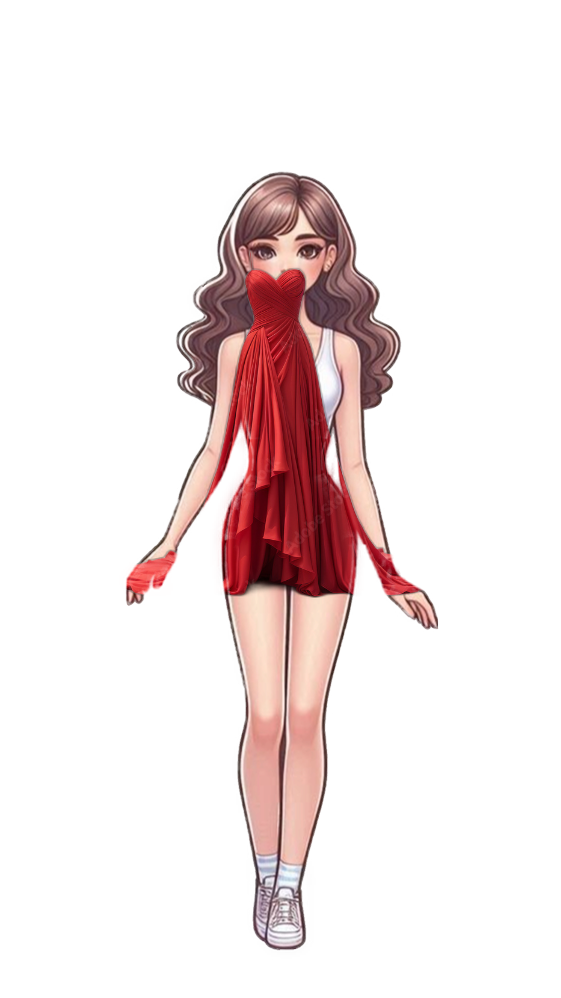
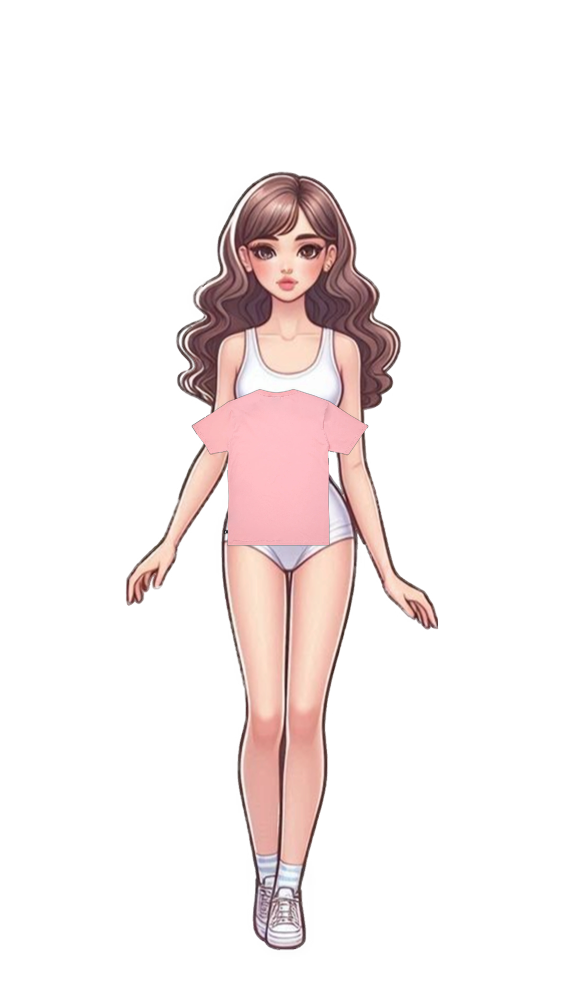
added some new features need to fix them

Changed region(s): [[0.3333, 0.2485, 0.7576, 0.6212], [0.2121, 0.5591, 0.303, 0.6212]]

diff --git a/image_processing/processing.py b/image_processing/processing.py
@@ -1,0 +1,61 @@
+import cv2
+import numpy as np
+from rembg import remove
+from PIL import Image
+
+def fit_on_dummy(input_path, garment_type):
+    dummy = cv2.imread('dummy.png', cv2.IMREAD_UNCHANGED)
+    if dummy is None:
+        print("Error: Could not find 'dummy.png'")
+        return None
+
+    # Process garment
+    input_img = Image.open(input_path)
+    no_bg = remove(input_img)
+    cv_garment = cv2.cvtColor(np.array(no_bg), cv2.COLOR_RGBA2BGRA)
+    
+    # Crop to content
+    alpha = cv_garment[:,:,3]
+    y, x = np.where(alpha > 0)
+    cropped = cv_garment[np.min(y):np.max(y), np.min(x):np.max(x)]
+    h, w = cropped.shape[:2]
+
+    # --- COORDINATE FIXES FOR 561x998 DUMMY ---
+    # Center X is 280
+    if garment_type == "top" or garment_type == "dress":
+        # Anchoring to the top of the shoulders/base of neck
+        target_width = 240  # Increased to actually cover the dummy's shoulders
+        scale = target_width / w
+        new_w = int(w * scale)
+        new_h = int(h * scale)
+        
+        anchor_x = (561 - new_w) // 2
+        anchor_y = 285 # Moved down from your original to sit on the shoulders
+
+    elif garment_type == "bottom":
+        target_width = 160 # Waist width
+        scale = target_width / w
+        new_w = int(w * scale)
+        new_h = int(h * scale)
+        
+        anchor_x = (561 - new_w) // 2
+        anchor_y = 480 # Hip/Waist line
+    
+    resized = cv2.resize(cropped, (new_w, new_h))
+
+    # Overlay with alpha blending
+    end_y = min(anchor_y + resized.shape[0], 998)
+    end_x = min(anchor_x + resized.shape[1], 561)
+    overlay_part = resized[:end_y-anchor_y, :end_x-anchor_x]
+
+    for c in range(0, 3):
+        alpha_s = overlay_part[:, :, 3] / 255.0
+        alpha_l = 1.0 - alpha_s
+        dummy[anchor_y:end_y, anchor_x:end_x, c] = \
+            (alpha_s * overlay_part[:, :, c] + 
+             alpha_l * dummy[anchor_y:end_y, anchor_x:end_x, c])
+
+    # Final result
+    result_path = f"final_look_{garment_type}.png"
+    cv2.imwrite(result_path, dummy)
+    return result_path
